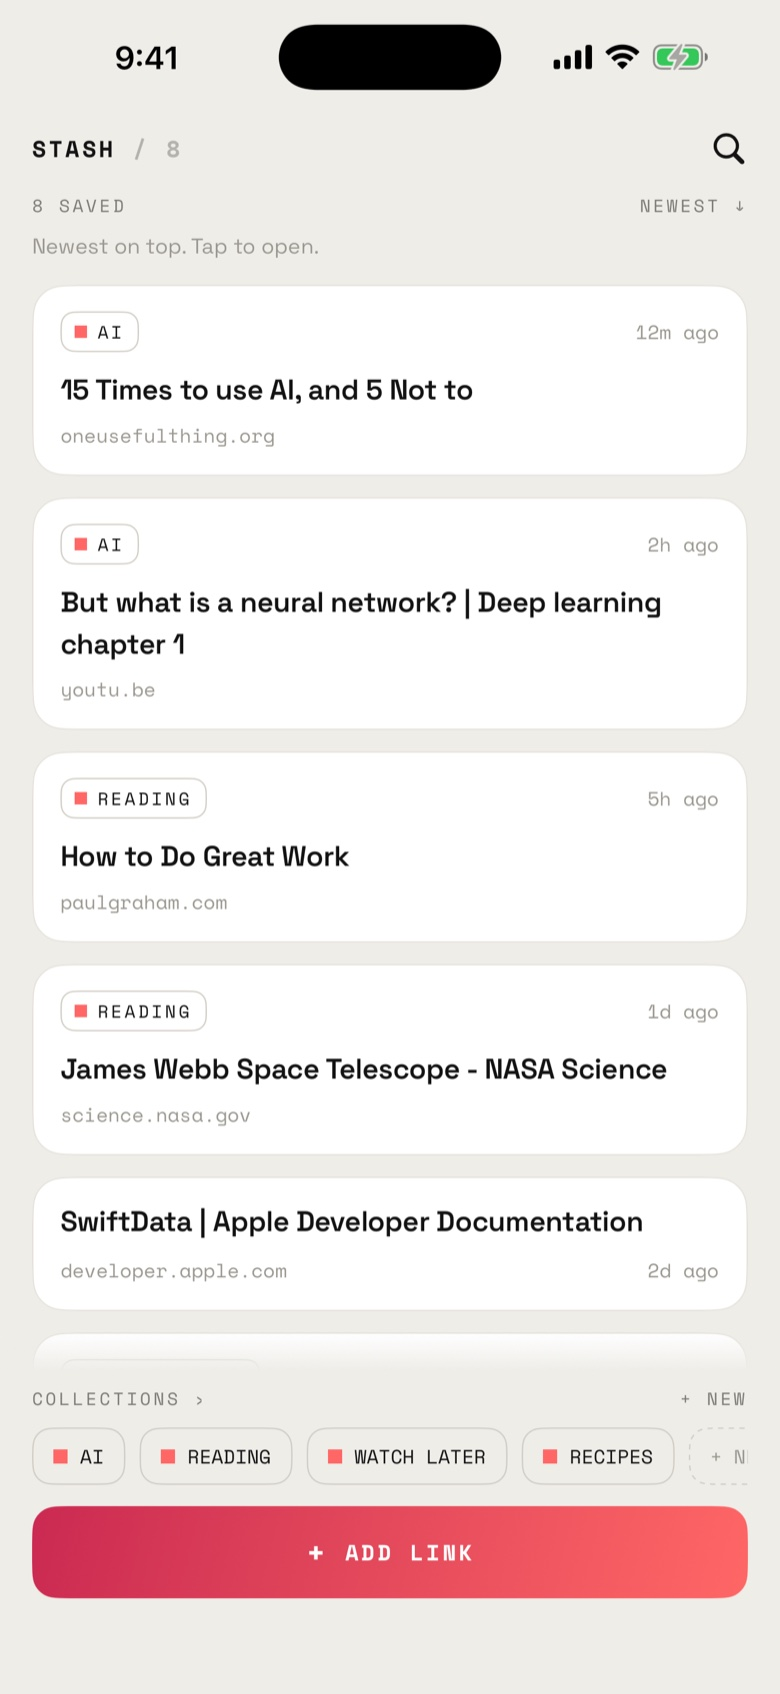
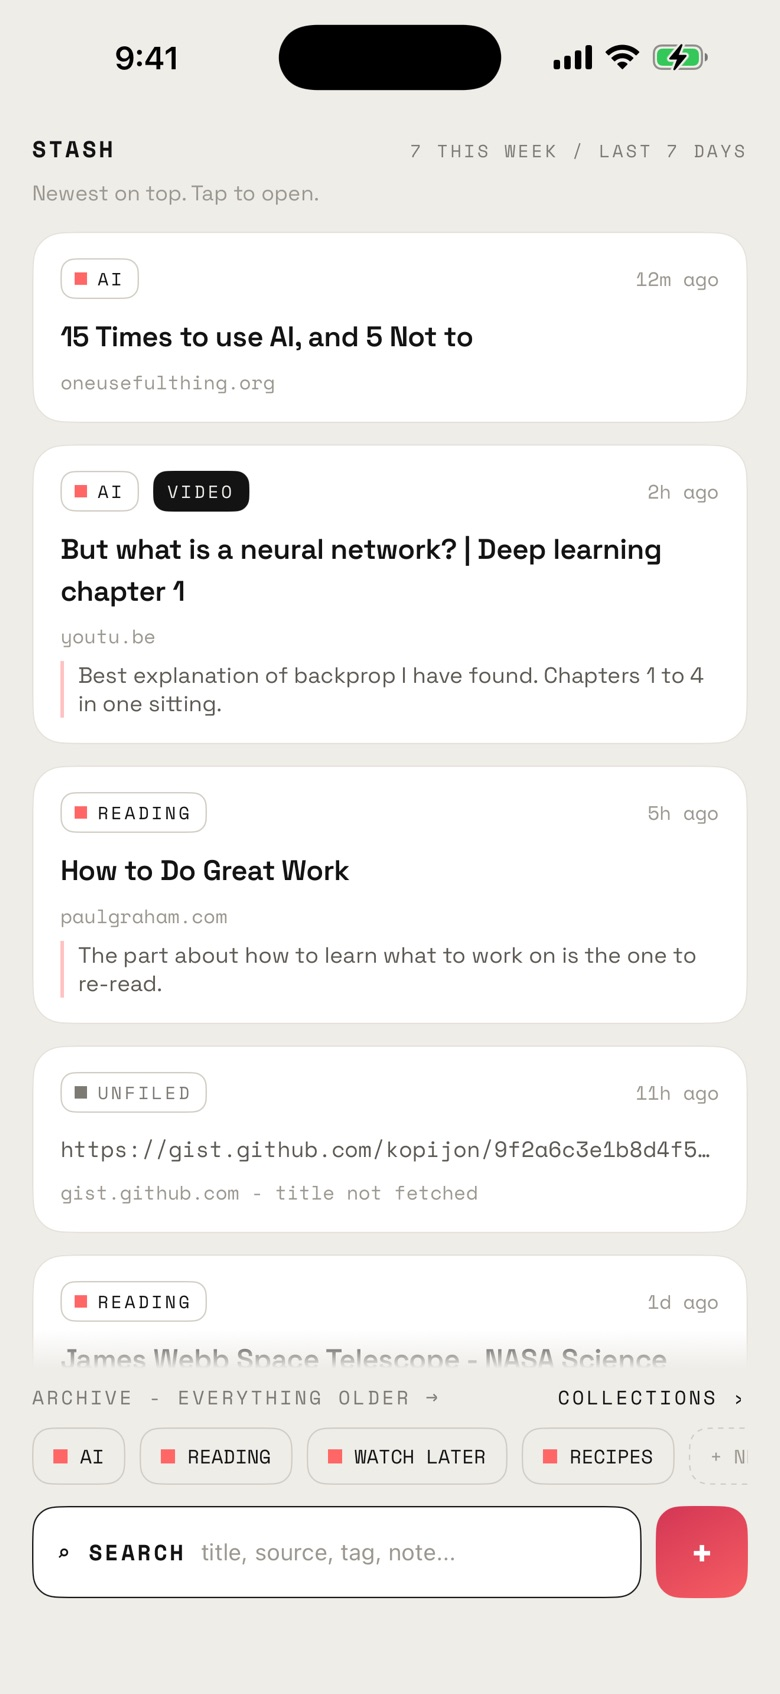
assets: refresh feed and search screenshots to the shipping build-4 UI
Feed shows the bounded week header, VIDEO tag, card notes, the honest
UNFILED row and the search-first bottom bar. Search moves to the query
'mission' so the note-match - the section's whole point - is the one
visible result (the taller build-4 cards pushed it below the keyboard on
'deep'); alt text updated in both pages. app-share-sheet.jpg untouched:
system share sheet plus our icon, still accurate.

diff --git a/index.html b/index.html
@@ -638,7 +638,7 @@
         <h2>A fragment is usually enough</h2>
         <div class="showcase">
           <div class="phone">
-            <img src="assets/app-search.jpg" width="780" height="1694" alt="Search in STASH part way through the word deep, already showing matching saved links, with one result matched on the note the reader wrote rather than the title." loading="lazy">
+            <img src="assets/app-search.jpg" width="780" height="1694" alt="Search in STASH part way through the word mission, with the one matching saved link found through the note the reader wrote rather than the title." loading="lazy">
           </div>
           <p class="phone-cap">Titles, tags, sources and your own notes</p>
         </div>

diff --git a/story.html b/story.html
@@ -585,7 +585,7 @@
 
         <div class="showcase">
           <div class="phone">
-            <img src="assets/app-search.jpg" width="780" height="1694" alt="Search in STASH part way through the word deep, already showing matching saved links, with one result matched on the note the reader wrote rather than the title." loading="lazy">
+            <img src="assets/app-search.jpg" width="780" height="1694" alt="Search in STASH part way through the word mission, with the one matching saved link found through the note the reader wrote rather than the title." loading="lazy">
           </div>
           <p class="phone-cap">A fragment is usually enough</p>
         </div>
